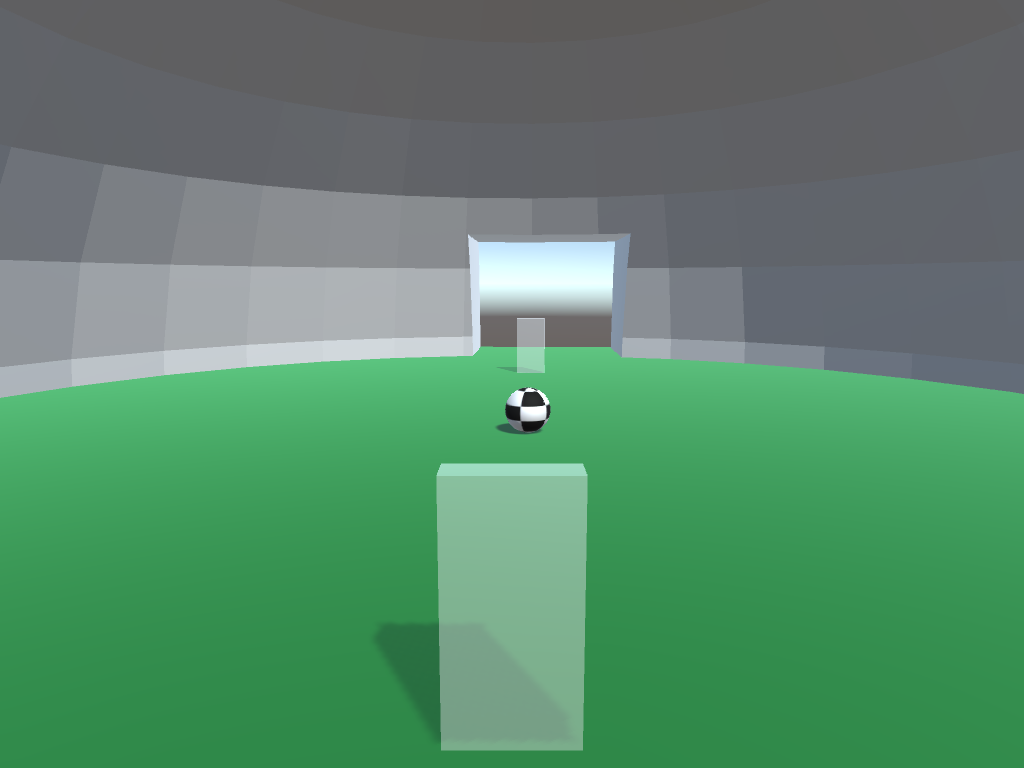
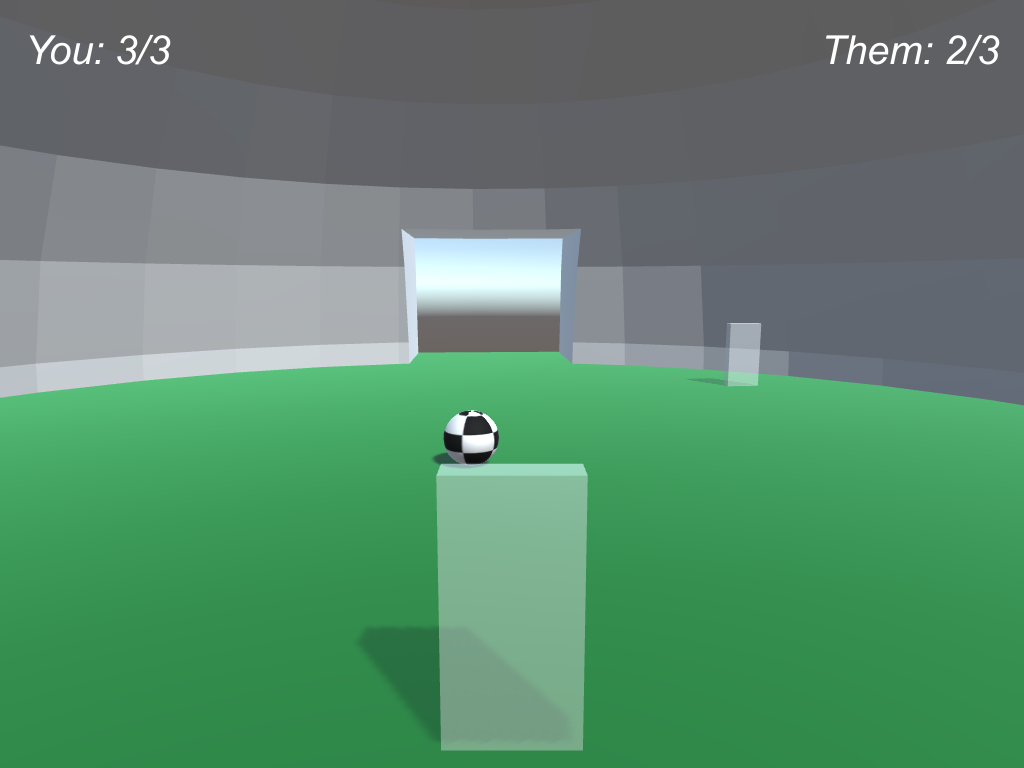
Implementation of Scores displaying via an on screen GUI
This includes wiring up Player scores to the GUI controller via
a delegate event system, that is only configure on the client side.

diff --git a/unity/Assets/Scripts/Game/PlayerScore.cs b/unity/Assets/Scripts/Game/PlayerScore.cs
@@ -12,13 +12,25 @@ namespace Game
         /// <summary>
         /// Synced field for storing the current score of a goal
         /// </summary>
-        [SyncVar]
+        [SyncVar(hook = "scoreHook")]
         private int _score;
 
         /// <summary>
         /// Player name - makes debugging easier.
         /// </summary>
         public string Name;
+
+        /// <summary>
+        /// Delegate for when the score has changed
+        /// </summary>
+        /// <param name="score"></param>
+        /// <param name="isLocalPlayer">Whether this is the local player or not</param>
+        public delegate void Scored(int score, bool isLocalPlayer);
+
+        /// <summary>
+        /// Fired when a score has changed
+        /// </summary>
+        public event Scored ScoreIncrease;
 
         /// <summary>
         /// Current score. Only the server can set the value
@@ -55,7 +67,22 @@ namespace Game
         public void TargetGoal(TriggerObservable observable)
         {
             observable.TriggerEnter += Goals.OnBallGoal(_ => Score += 1);
-            observable.TriggerEnter += Goals.OnBallGoal(_ => Debug.LogFormat("[PlayerScore] GOAL!!! {0}, Score: {1}", Name, Score));
+            observable.TriggerEnter += Goals.OnBallGoal(
+                _ => Debug.LogFormat("[PlayerScore] GOAL!!! {0}, Score: {1}", Name, Score));
+        }
+
+        /// <summary>
+        /// Hook for when the score changes
+        /// </summary>
+        /// <param name="score"></param>
+        private void scoreHook(int score)
+        {
+            Debug.LogFormat("[PlayerScore] Score Hook: {0}", score);
+            if (!isServer)
+            {
+                _score = score;
+                ScoreIncrease(_score, isLocalPlayer);
+            }
         }
     }
 }

diff --git a/unity/Assets/Scripts/Client/PlayerDependencies.cs b/unity/Assets/Scripts/Client/PlayerDependencies.cs
@@ -1,0 +1,49 @@
+using Client.GUI;
+using Game;
+using UnityEngine;
+using UnityEngine.Networking;
+
+namespace Client
+{
+    /// <summary>
+    /// Component whose job it is to wire the player up to
+    /// things that are dependent on knowing when the player shows
+    /// up on screen. Primarily used for Client side management.
+    /// </summary>
+    [RequireComponent(typeof(PlayerScore))]
+    public class PlayerDependencies : NetworkBehaviour
+    {
+        private const string ClientControllerName = "Client Controller";
+
+        // --- Messages ---
+
+        /// <summary>
+        /// Wires up dependencies.
+        /// </summary>
+        private void Start()
+        {
+            if (isClient)
+            {
+                var playerScore = GetComponent<PlayerScore>();
+                // I know people don't like this approach, but can't find a better way?
+                var scoreBoard = GameObject.Find(ClientControllerName).GetComponent<ScoreBoard>();
+                playerScore.ScoreIncrease += scoreBoard.OnScore;
+            }
+        }
+
+        /// <summary>
+        /// On destroy, make sure to remove yourself from dependencies
+        /// </summary>
+        private void OnDestroy()
+        {
+            if (isClient)
+            {
+                var playerScore = GetComponent<PlayerScore>();
+                var scoreBoard = GameObject.Find(ClientControllerName).GetComponent<ScoreBoard>();
+                playerScore.ScoreIncrease -= scoreBoard.OnScore;
+            }
+        }
+
+        // --- Functions ---
+    }
+}

diff --git a/unity/Assets/Scripts/Client/GUI/ScoreBoard.cs b/unity/Assets/Scripts/Client/GUI/ScoreBoard.cs
@@ -1,0 +1,50 @@
+using System;
+using UnityEngine;
+using UnityEngine.UI;
+
+namespace Client.GUI
+{
+    /// <summary>
+    /// Components to take information from players
+    /// and display it on the HUD score
+    /// </summary>
+    public class ScoreBoard : MonoBehaviour
+    {
+        [SerializeField]
+        [Tooltip("Your score field")]
+        private Text yourScore;
+
+        [SerializeField]
+        [Tooltip("Your opponent's score field")]
+        private Text opponentScore;
+
+        // --- Messages ---
+
+        private void OnValidate()
+        {
+            if (yourScore == null)
+            {
+                throw new Exception("Your score is null. It should not be");
+            }
+            if (opponentScore == null)
+            {
+                throw new Exception("Opponent Score is null. It should not be");
+            }
+        }
+
+        // --- Functions ---
+
+        public void OnScore(int score, bool isPlayerLocal)
+        {
+            Debug.LogFormat("[ScoreBoard] I gots a score! {0}, is local player: {1}", score, isPlayerLocal);
+            if (isPlayerLocal)
+            {
+                yourScore.text = string.Format("You: {0}/3", score);
+            }
+            else
+            {
+                opponentScore.text = string.Format("Them: {0}/3", score);
+            }
+        }
+    }
+}

diff --git a/unity/Assets/Scripts/Client/GUI/MouseLock.cs b/unity/Assets/Scripts/Client/GUI/MouseLock.cs
@@ -12,7 +12,7 @@
 // See the License for the specific language governing permissions and
 // limitations under the License.
 
-using UnityEngine;
+using UnityEngine;
 
 namespace Client.GUI
 {
@@ -36,11 +36,11 @@ namespace Client.GUI
         /// </summary>
         private void Update()
         {
-            if(Input.GetButtonDown("Fire1") && Cursor.visible)
+            if (Input.GetButtonDown("Fire1") && Cursor.visible)
             {
                 LockMouse();
             }
-            else if(Input.GetKeyDown(KeyCode.Escape))
+            else if (Input.GetKeyDown(KeyCode.Escape))
             {
                 Cursor.lockState = CursorLockMode.None;
                 Cursor.visible = true;
@@ -54,7 +54,7 @@ namespace Client.GUI
         /// </summary>
         private static void LockMouse()
         {
-            if(!Application.isEditor)
+            if (!Application.isEditor)
             {
                 Cursor.lockState = CursorLockMode.Locked;
                 Cursor.visible = false;

diff --git a/unity/Assets/Scripts/Server/Controllers/ScoreController.cs b/unity/Assets/Scripts/Server/Controllers/ScoreController.cs
@@ -12,6 +12,7 @@
 // See the License for the specific language governing permissions and
 // limitations under the License.
 
+using System;
 using Game;
 using UnityEngine;
 
@@ -32,6 +33,19 @@ namespace Server.Controllers
 
         // --- Messages ---
 
+        private void OnValidate()
+        {
+            if (goal1 == null)
+            {
+                throw new Exception("[ScoreController] goal1 is null. This is bad");
+            }
+
+            if (goal2 == null)
+            {
+                throw new Exception("[ScoreController] goal2 is null. This is bad");
+            }
+        }
+
         /// <summary>
         /// Connect OnGameReady to connect players to their respective goals
         /// </summary>
@@ -49,7 +63,6 @@ namespace Server.Controllers
         {
             Debug.Log("Connecting Players to Goals!");
             var players = GameServer.GetPlayers();
-
 
             var p1Score = players[0].GetComponent<PlayerScore>();
             p1Score.Name = "Player 1";
